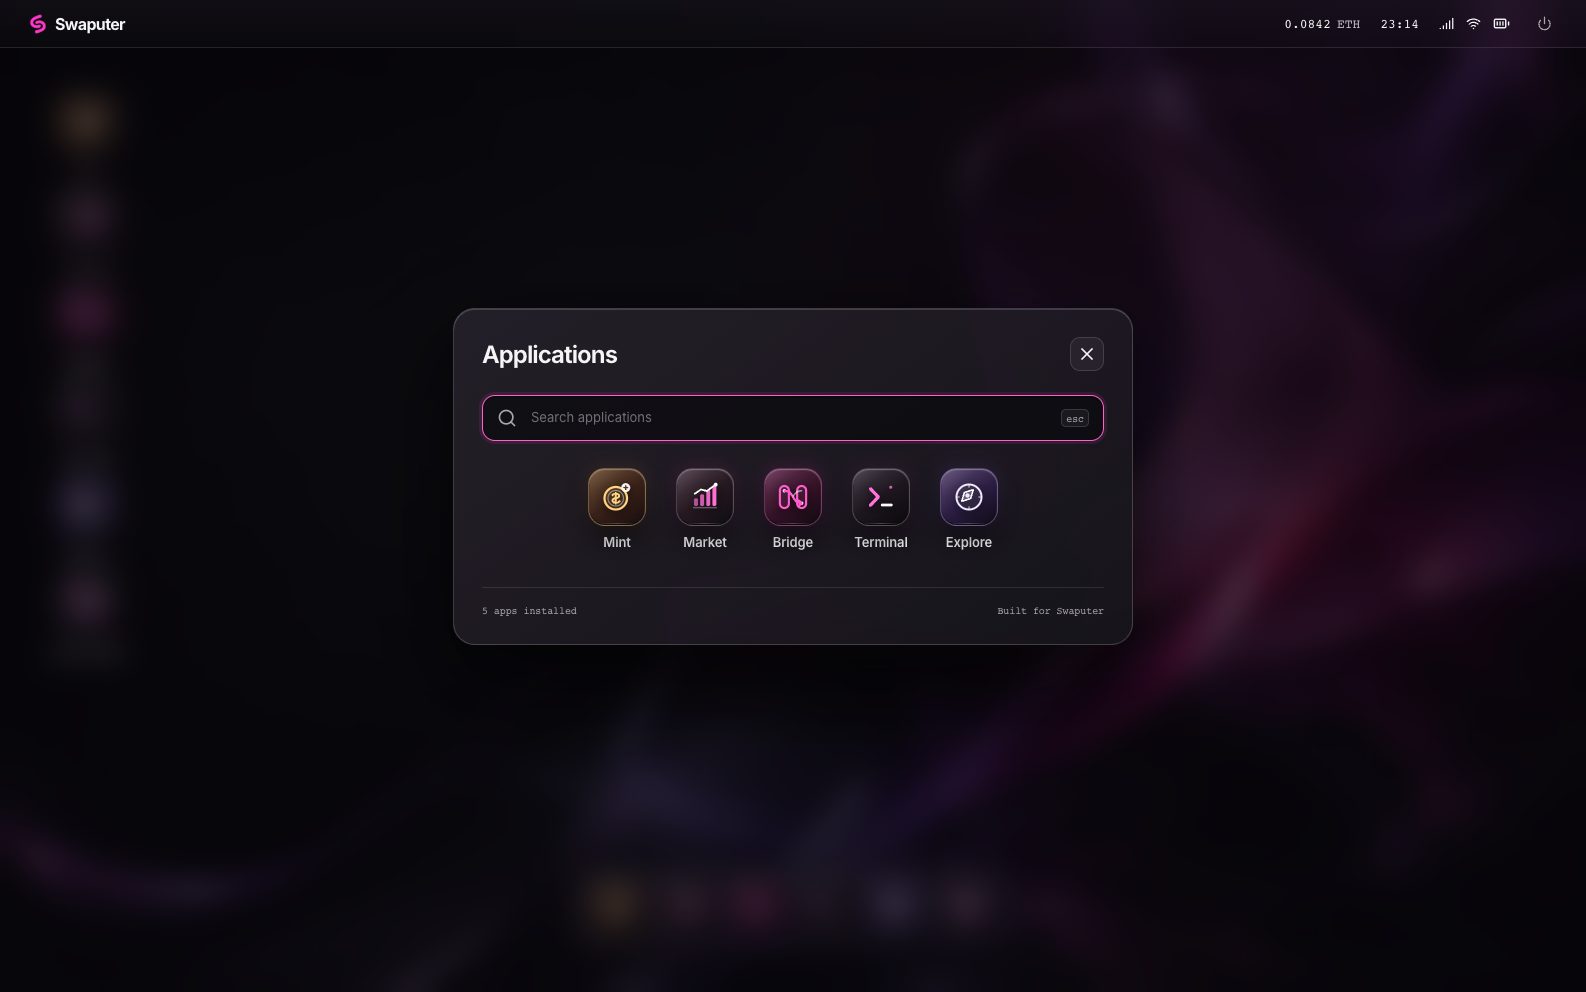
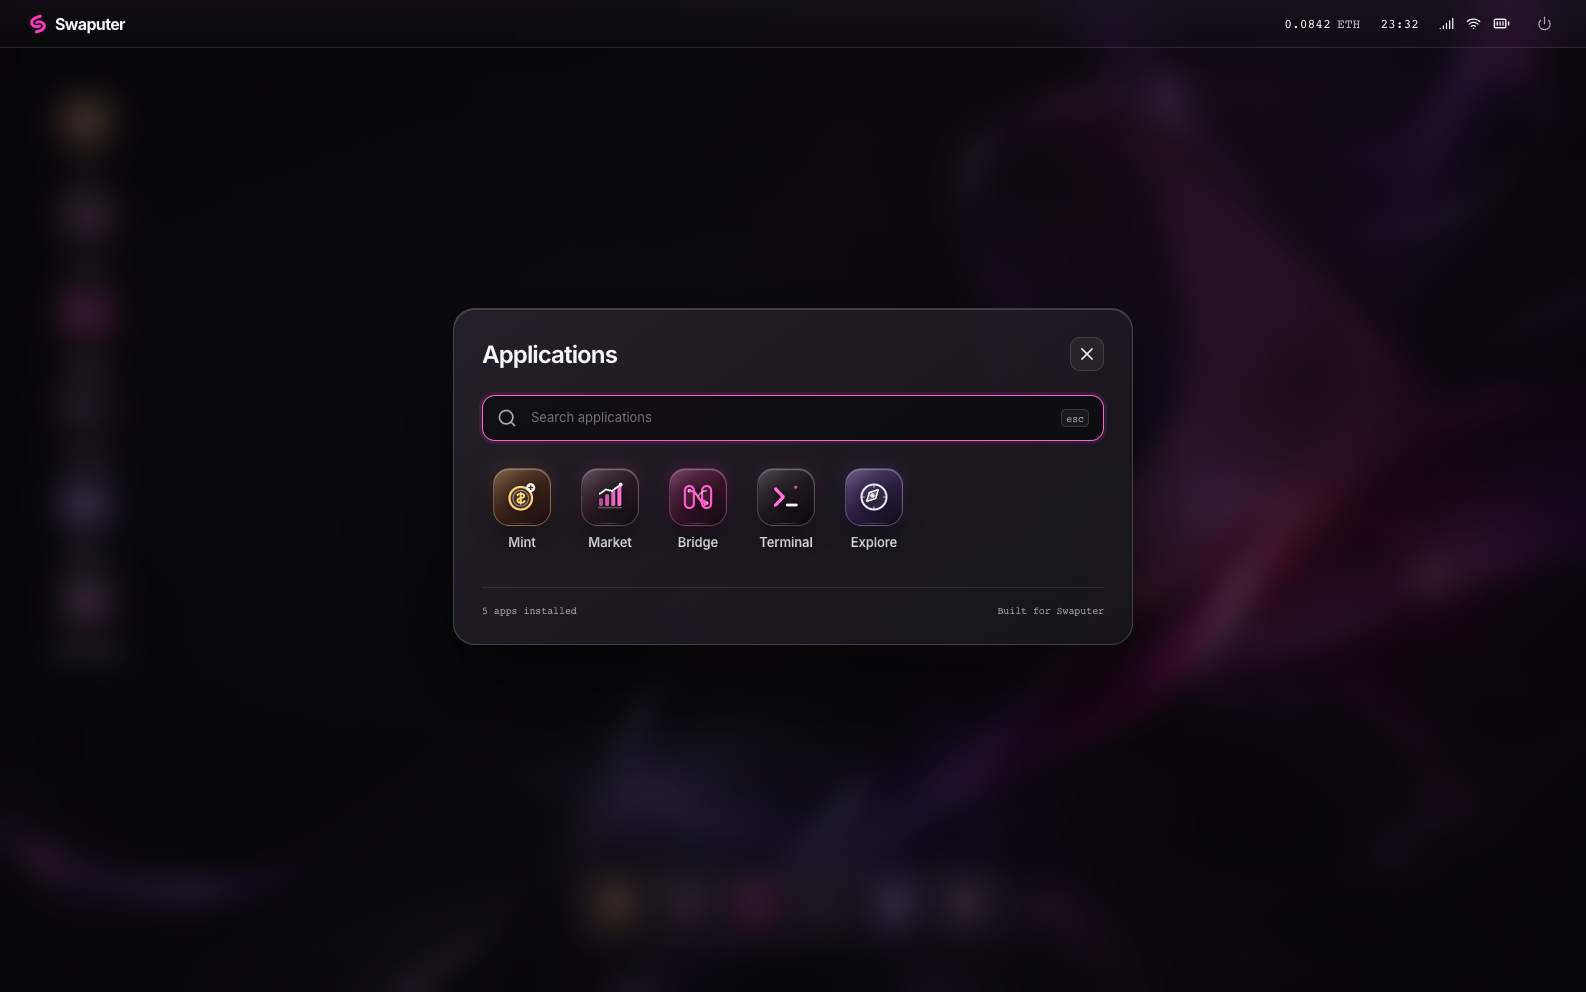
fix: left-align application launcher

Changed region(s): [[0.309, 0.4688, 0.6488, 0.5625]]

diff --git a/src/desktop.css b/src/desktop.css
@@ -105,7 +105,7 @@ button:focus-visible,a:focus-visible { outline:2px solid var(--blue);outline-off
 .os-library-search:focus-within { border-color:var(--blue);box-shadow:0 0 0 1px var(--blue); }
 .os-library-search input { flex:1;width:0;border:0;outline:0;background:none;color:var(--ink);font-size:13px; }
 .os-library-search kbd { font:10px var(--font-mono);border:1px solid var(--rule);padding:2px 4px; }
-.os-library-apps { display:grid;grid-template-columns:repeat(5,88px);justify-content:center;gap:12px;margin-top:18px; }
+.os-library-apps { display:grid;grid-template-columns:repeat(5,88px);justify-content:start;gap:12px;margin-top:18px; }
 .os-library-app { display:flex;flex-direction:column;gap:10px;width:100%;text-align:center;padding:14px 6px;background:none;border:1px solid transparent;align-items:center; }
 .os-library-app:hover { border-color:var(--rule);background:var(--surface-raised); }
 .os-library-app>.os-icon { width:64px;height:64px; }
